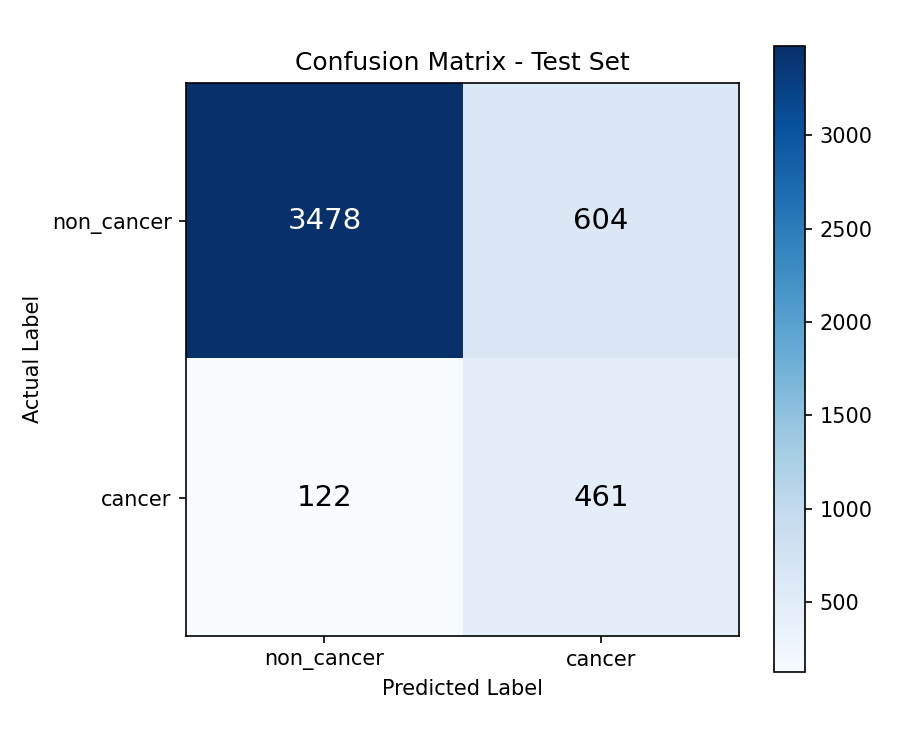
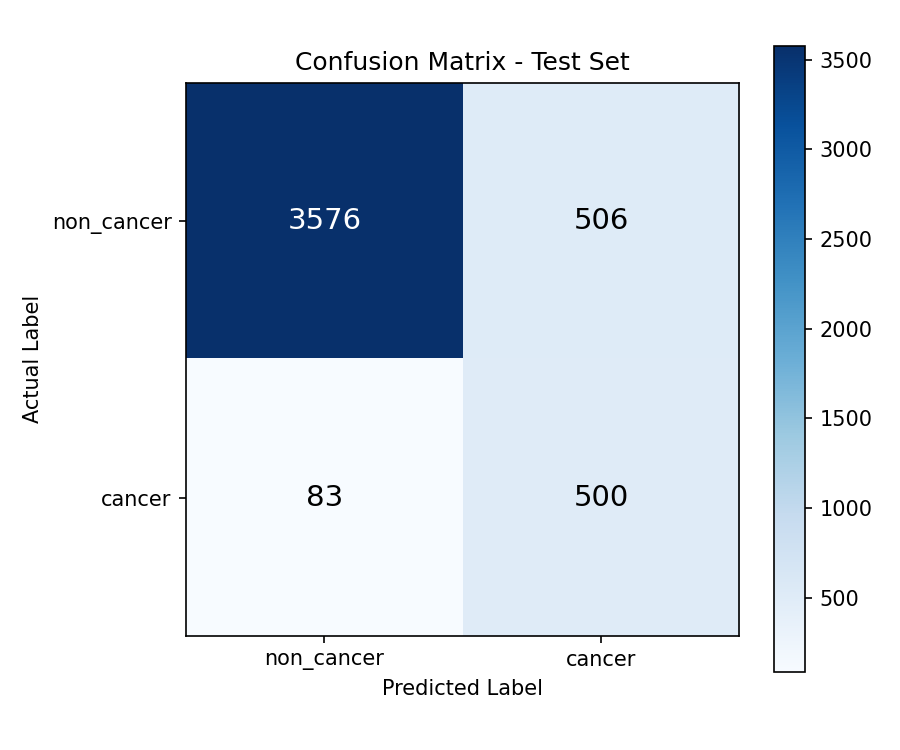
89 accuracy

diff --git a/evaluate_fine.py b/evaluate_fine.py
@@ -1,0 +1,114 @@
+"""
+Evaluates the trained model on the TEST set (data never used during
+training or validation) - producing the metrics that actually matter
+for a medical AI project: confusion matrix, sensitivity, specificity,
+precision, F1-score, and AUC-ROC.
+"""
+
+import torch
+import torch.nn as nn
+from torch.utils.data import DataLoader
+from sklearn.metrics import confusion_matrix, classification_report, roc_auc_score
+import numpy as np
+import matplotlib.pyplot as plt
+
+from dataset import GastricDataset, eval_transform
+from model import build_model
+
+# ---- CONFIG ----
+CSV_PATH = "dataset_labels.csv"
+MODEL_PATH = "gastric_cancer_model_finetuned.pth"
+BATCH_SIZE = 32
+DEVICE = torch.device('cuda' if torch.cuda.is_available() else 'cpu')
+
+print(f"Using device: {DEVICE}")
+
+# ---- LOAD TEST DATASET ----
+test_dataset = GastricDataset(CSV_PATH, split="test", transform=eval_transform)
+test_loader = DataLoader(test_dataset, batch_size=BATCH_SIZE, shuffle=False, num_workers=2)
+
+# ---- LOAD TRAINED MODEL ----
+model = build_model(num_classes=2, freeze_backbone=False)
+model.load_state_dict(torch.load(MODEL_PATH, map_location=DEVICE))
+model = model.to(DEVICE)
+model.eval()
+
+# ---- RUN PREDICTIONS ON TEST SET ----
+all_preds = []
+all_labels = []
+all_probs = []  # probability of "cancer" class, needed for AUC-ROC
+
+with torch.no_grad():
+    for images, labels in test_loader:
+        images = images.to(DEVICE)
+        outputs = model(images)
+        probs = torch.softmax(outputs, dim=1)
+        _, preds = torch.max(outputs, 1)
+
+        all_preds.extend(preds.cpu().numpy())
+        all_labels.extend(labels.numpy())
+        all_probs.extend(probs[:, 1].cpu().numpy())  # index 1 = cancer class
+
+all_preds = np.array(all_preds)
+all_labels = np.array(all_labels)
+all_probs = np.array(all_probs)
+
+# ---- CONFUSION MATRIX ----
+cm = confusion_matrix(all_labels, all_preds)
+tn, fp, fn, tp = cm.ravel()
+
+print("\n" + "="*50)
+print("CONFUSION MATRIX")
+print("="*50)
+print(f"                 Predicted Non-Cancer   Predicted Cancer")
+print(f"Actual Non-Cancer      {tn:6d}                {fp:6d}")
+print(f"Actual Cancer          {fn:6d}                {tp:6d}")
+
+# ---- CALCULATE METRICS ----
+accuracy = (tp + tn) / (tp + tn + fp + fn)
+sensitivity = tp / (tp + fn) if (tp + fn) > 0 else 0  # recall for cancer class
+specificity = tn / (tn + fp) if (tn + fp) > 0 else 0
+precision = tp / (tp + fp) if (tp + fp) > 0 else 0
+f1 = 2 * (precision * sensitivity) / (precision + sensitivity) if (precision + sensitivity) > 0 else 0
+auc = roc_auc_score(all_labels, all_probs)
+
+print("\n" + "="*50)
+print("KEY METRICS")
+print("="*50)
+print(f"Accuracy:              {accuracy*100:.2f}%")
+print(f"Sensitivity (Recall):  {sensitivity*100:.2f}%   <- % of actual cancer cases correctly caught")
+print(f"Specificity:           {specificity*100:.2f}%   <- % of actual non-cancer cases correctly cleared")
+print(f"Precision:             {precision*100:.2f}%   <- of flagged 'cancer' predictions, % actually correct")
+print(f"F1-Score:               {f1:.4f}")
+print(f"AUC-ROC:                {auc:.4f}   <- 1.0 = perfect, 0.5 = random guessing")
+
+print("\n" + "="*50)
+print("FULL CLASSIFICATION REPORT")
+print("="*50)
+print(classification_report(all_labels, all_preds, target_names=['non_cancer', 'cancer']))
+
+# ---- PLOT CONFUSION MATRIX AS A HEATMAP ----
+fig, ax = plt.subplots(figsize=(6, 5))
+im = ax.imshow(cm, cmap='Blues')
+
+labels_text = ['non_cancer', 'cancer']
+ax.set_xticks([0, 1])
+ax.set_yticks([0, 1])
+ax.set_xticklabels(labels_text)
+ax.set_yticklabels(labels_text)
+ax.set_xlabel('Predicted Label')
+ax.set_ylabel('Actual Label')
+ax.set_title('Confusion Matrix - Test Set')
+
+for i in range(2):
+    for j in range(2):
+        ax.text(j, i, str(cm[i, j]), ha='center', va='center',
+                color='white' if cm[i, j] > cm.max()/2 else 'black', fontsize=14)
+
+plt.colorbar(im)
+plt.tight_layout()
+plt.savefig('confusion_matrix.png', dpi=150)
+plt.show()
+
+print("\nConfusion matrix saved as confusion_matrix.png")
+print("\nEvaluation complete.")

diff --git a/train_finetune.py b/train_finetune.py
@@ -1,5 +1,11 @@
 """
-Training script for gastric cancer detection model.
+Phase 2 training: Full fine-tuning.
+Unfreezes the entire backbone and continues training with a much smaller
+learning rate, starting from your already-trained model.
+
+Run this AFTER your original train.py has already produced
+gastric_cancer_model.pth - this script loads that model and improves it
+further, rather than starting from scratch.
 """
 
 import torch
@@ -12,21 +18,24 @@ import pandas as pd
 from dataset import GastricDataset, train_transform, eval_transform
 from model import build_model
 
+# ---- CONFIG ----
 CSV_PATH = "dataset_labels.csv"
+PREVIOUS_MODEL_PATH = "gastric_cancer_model.pth"  # your already-trained model
 BATCH_SIZE = 32
-NUM_EPOCHS = 20
-LEARNING_RATE = 0.0001
+NUM_EPOCHS = 10
+LEARNING_RATE = 0.00001  # MUCH smaller than before - avoids destroying pretrained knowledge
 DEVICE = torch.device('cuda' if torch.cuda.is_available() else 'cpu')
 
 print(f"Using device: {DEVICE}")
 
+# ---- LOAD DATASETS (same as before) ----
 train_dataset = GastricDataset(CSV_PATH, split="train", transform=train_transform)
 val_dataset = GastricDataset(CSV_PATH, split="val", transform=eval_transform)
 
 train_loader = DataLoader(train_dataset, batch_size=BATCH_SIZE, shuffle=True, num_workers=2)
 val_loader = DataLoader(val_dataset, batch_size=BATCH_SIZE, shuffle=False, num_workers=2)
 
-# Handle class imbalance
+# ---- CLASS WEIGHTS (same as before) ----
 full_df = pd.read_csv(CSV_PATH)
 train_labels = full_df[full_df["split"] == "train"]["label"].map(
     {"non_cancer": 0, "cancer": 1}
@@ -40,17 +49,21 @@ class_weights = compute_class_weight(
 class_weights_tensor = torch.tensor(class_weights, dtype=torch.float32).to(DEVICE)
 print(f"Class weights (non_cancer, cancer): {class_weights}")
 
-# Build model
-model = build_model(num_classes=2, freeze_backbone=True)
+# ---- BUILD MODEL WITH UNFROZEN BACKBONE, LOAD YOUR PREVIOUS WEIGHTS ----
+model = build_model(num_classes=2, freeze_backbone=False)  # KEY CHANGE: unfrozen
+model.load_state_dict(torch.load(PREVIOUS_MODEL_PATH, map_location=DEVICE))
 model = model.to(DEVICE)
 
-criterion = nn.CrossEntropyLoss(weight=class_weights_tensor)
-optimizer = torch.optim.Adam(model.parameters(), lr=LEARNING_RATE)  # Adam
+print("Loaded previous model weights. Backbone is now UNFROZEN for fine-tuning.")
 
+# ---- LOSS AND OPTIMIZER (lower learning rate this time) ----
+criterion = nn.CrossEntropyLoss(weight=class_weights_tensor)
+optimizer = torch.optim.Adam(model.parameters(), lr=LEARNING_RATE)
+
+# ---- TRAINING LOOP (same structure as before) ----
 best_val_acc = 0.0
 
 for epoch in range(NUM_EPOCHS):
-    # Training phase
     model.train()
     running_loss = 0.0
 
@@ -60,7 +73,7 @@ for epoch in range(NUM_EPOCHS):
         optimizer.zero_grad()
         outputs = model(images)
         loss = criterion(outputs, labels)
-        loss.backward() # Backpropagation
+        loss.backward()
         optimizer.step()
 
         running_loss += loss.item()
@@ -70,7 +83,6 @@ for epoch in range(NUM_EPOCHS):
 
     avg_train_loss = running_loss / len(train_loader)
 
-    # Validation phase
     model.eval()
     correct, total = 0, 0
     val_loss = 0.0
@@ -91,11 +103,10 @@ for epoch in range(NUM_EPOCHS):
     print(f"\n=== Epoch {epoch+1}/{NUM_EPOCHS} Summary ===")
     print(f"Train Loss: {avg_train_loss:.4f} | Val Loss: {avg_val_loss:.4f} | Val Accuracy: {val_acc:.2f}%\n")
 
-    # Save the best model
     if val_acc > best_val_acc:
         best_val_acc = val_acc
-        torch.save(model.state_dict(), "gastric_cancer_model.pth")
-        print(f"New best model saved! (Val Accuracy: {val_acc:.2f}%)\n")
+        torch.save(model.state_dict(), "gastric_cancer_model_finetuned.pth")
+        print(f"New best fine-tuned model saved! (Val Accuracy: {val_acc:.2f}%)\n")
 
-print(f"\nTraining complete. Best validation accuracy: {best_val_acc:.2f}%")
-print("Model saved as gastric_cancer_model.pth")
+print(f"\nFine-tuning complete. Best validation accuracy: {best_val_acc:.2f}%")
+print("Model saved as gastric_cancer_model_finetuned.pth")

diff --git a/threshold_search.py b/threshold_search.py
@@ -1,0 +1,84 @@
+"""
+Searches for the best classification threshold on the VALIDATION set
+(not test set, to keep the final test evaluation honest).
+
+Finds the threshold that gives the BEST ACCURACY while keeping
+sensitivity above a minimum bar you set - rather than blindly using
+the default 50% cutoff.
+"""
+
+import torch
+from torch.utils.data import DataLoader
+from sklearn.metrics import confusion_matrix
+import numpy as np
+
+from dataset import GastricDataset, eval_transform
+from model import build_model
+
+# ---- CONFIG ----
+CSV_PATH = "dataset_labels.csv"
+MODEL_PATH = "gastric_cancer_model_finetuned.pth"
+BATCH_SIZE = 32
+MIN_SENSITIVITY = 0.80  # the minimum sensitivity we're willing to accept
+DEVICE = torch.device('cuda' if torch.cuda.is_available() else 'cpu')
+
+print(f"Using device: {DEVICE}")
+
+# ---- LOAD VALIDATION SET (searching here, not on test set) ----
+val_dataset = GastricDataset(CSV_PATH, split="val", transform=eval_transform)
+val_loader = DataLoader(val_dataset, batch_size=BATCH_SIZE, shuffle=False, num_workers=2)
+
+# ---- LOAD FINE-TUNED MODEL ----
+model = build_model(num_classes=2, freeze_backbone=False)
+model.load_state_dict(torch.load(MODEL_PATH, map_location=DEVICE))
+model = model.to(DEVICE)
+model.eval()
+
+# ---- GET PROBABILITIES ON VALIDATION SET ----
+all_labels = []
+all_probs = []
+
+with torch.no_grad():
+    for images, labels in val_loader:
+        images = images.to(DEVICE)
+        outputs = model(images)
+        probs = torch.softmax(outputs, dim=1)
+        all_labels.extend(labels.numpy())
+        all_probs.extend(probs[:, 1].cpu().numpy())  # probability of "cancer"
+
+all_labels = np.array(all_labels)
+all_probs = np.array(all_probs)
+
+# ---- TRY MANY THRESHOLDS, FIND THE BEST ONE ----
+print(f"\nSearching thresholds (minimum sensitivity required: {MIN_SENSITIVITY*100:.0f}%)...\n")
+print(f"{'Threshold':<12}{'Accuracy':<12}{'Sensitivity':<14}{'Specificity':<12}")
+print("-" * 50)
+
+best_threshold = 0.5
+best_accuracy = 0.0
+results = []
+
+for threshold in np.arange(0.10, 0.91, 0.05):
+    preds = (all_probs >= threshold).astype(int)
+    cm = confusion_matrix(all_labels, preds)
+    tn, fp, fn, tp = cm.ravel()
+
+    accuracy = (tp + tn) / (tp + tn + fp + fn)
+    sensitivity = tp / (tp + fn) if (tp + fn) > 0 else 0
+    specificity = tn / (tn + fp) if (tn + fp) > 0 else 0
+
+    results.append((threshold, accuracy, sensitivity, specificity))
+    print(f"{threshold:<12.2f}{accuracy*100:<12.2f}{sensitivity*100:<14.2f}{specificity*100:<12.2f}")
+
+    # Only consider this threshold if it meets our minimum sensitivity requirement
+    if sensitivity >= MIN_SENSITIVITY and accuracy > best_accuracy:
+        best_accuracy = accuracy
+        best_threshold = threshold
+
+print("\n" + "="*50)
+print(f"BEST THRESHOLD (meeting {MIN_SENSITIVITY*100:.0f}%+ sensitivity): {best_threshold:.2f}")
+print(f"Resulting Accuracy: {best_accuracy*100:.2f}%")
+print("="*50)
+print(f"\nUpdate your app.py / evaluate.py to use threshold={best_threshold:.2f}")
+print("instead of the default 0.5, then re-run evaluate.py on the TEST set")
+print("to confirm this threshold's real performance on unseen data.")

diff --git a/eval_fine_thres.py b/eval_fine_thres.py
@@ -1,0 +1,72 @@
+"""
+Evaluates the fine-tuned model on the TEST set using the optimized
+threshold (0.65) found via threshold_search.py on the validation set.
+"""
+
+import torch
+from torch.utils.data import DataLoader
+from sklearn.metrics import confusion_matrix, roc_auc_score
+import numpy as np
+
+from dataset import GastricDataset, eval_transform
+from model import build_model
+
+# ---- CONFIG ----
+CSV_PATH = "dataset_labels.csv"
+MODEL_PATH = "gastric_cancer_model_finetuned.pth"
+BATCH_SIZE = 32
+THRESHOLD = 0.65  # found via threshold_search.py on the validation set
+DEVICE = torch.device('cuda' if torch.cuda.is_available() else 'cpu')
+
+print(f"Using device: {DEVICE}")
+print(f"Using classification threshold: {THRESHOLD}")
+
+test_dataset = GastricDataset(CSV_PATH, split="test", transform=eval_transform)
+test_loader = DataLoader(test_dataset, batch_size=BATCH_SIZE, shuffle=False, num_workers=2)
+
+model = build_model(num_classes=2, freeze_backbone=False)
+model.load_state_dict(torch.load(MODEL_PATH, map_location=DEVICE))
+model = model.to(DEVICE)
+model.eval()
+
+all_labels = []
+all_probs = []
+
+with torch.no_grad():
+    for images, labels in test_loader:
+        images = images.to(DEVICE)
+        outputs = model(images)
+        probs = torch.softmax(outputs, dim=1)
+        all_labels.extend(labels.numpy())
+        all_probs.extend(probs[:, 1].cpu().numpy())
+
+all_labels = np.array(all_labels)
+all_probs = np.array(all_probs)
+all_preds = (all_probs >= THRESHOLD).astype(int)
+
+cm = confusion_matrix(all_labels, all_preds)
+tn, fp, fn, tp = cm.ravel()
+
+accuracy = (tp + tn) / (tp + tn + fp + fn)
+sensitivity = tp / (tp + fn) if (tp + fn) > 0 else 0
+specificity = tn / (tn + fp) if (tn + fp) > 0 else 0
+precision = tp / (tp + fp) if (tp + fp) > 0 else 0
+f1 = 2 * (precision * sensitivity) / (precision + sensitivity) if (precision + sensitivity) > 0 else 0
+auc = roc_auc_score(all_labels, all_probs)
+
+print("\n" + "="*50)
+print(f"CONFUSION MATRIX (threshold={THRESHOLD})")
+print("="*50)
+print(f"                 Predicted Non-Cancer   Predicted Cancer")
+print(f"Actual Non-Cancer      {tn:6d}                {fp:6d}")
+print(f"Actual Cancer          {fn:6d}                {tp:6d}")
+
+print("\n" + "="*50)
+print("KEY METRICS ON TEST SET (final, honest result)")
+print("="*50)
+print(f"Accuracy:              {accuracy*100:.2f}%")
+print(f"Sensitivity (Recall):  {sensitivity*100:.2f}%")
+print(f"Specificity:           {specificity*100:.2f}%")
+print(f"Precision:             {precision*100:.2f}%")
+print(f"F1-Score:               {f1:.4f}")
+print(f"AUC-ROC:                {auc:.4f}")
